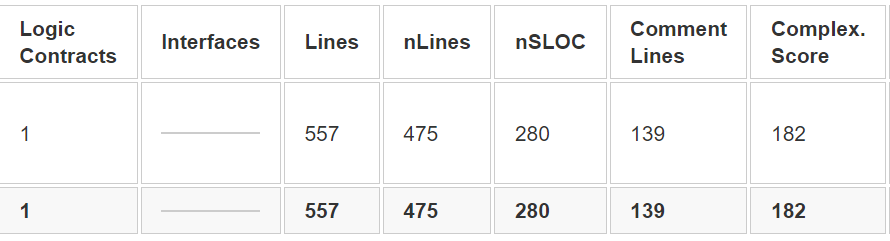
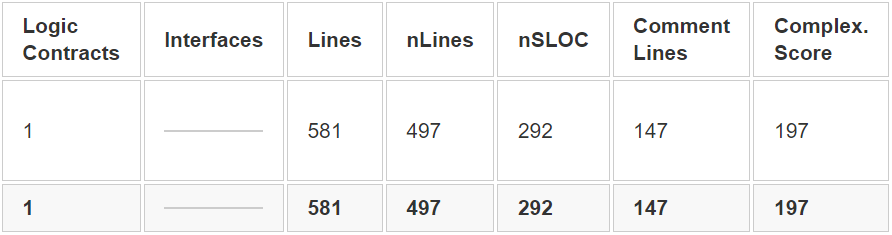
docs: update audit docs with diagrams and nSLOC

diff --git a/docs/audit-list.md b/docs/audit-list.md
@@ -45,10 +45,11 @@ Below are the list of dependencies used in these contracts. Since the interfaces
 | Imports                  | Description       | Need for audit |
 | ------------------------ | ----------------- | -------------- |
 | IERC20                   | Interface         | No             |
-| SafeERC20                | Abstract contract | No             |
+| SafeERC20                | Library           | No             |
+| AddressUpgradeable       | Library           | No             |
 | UUPSUpgradeable          | Abstract contract | No             |
 | AccessControlUpgradeable | Abstract contract | No             |
-| AddressUpgradeable       | Abstract contract | No             |
+| PausableUpgradeable      | Abstract contract | No             |
 
 ### From Chainlink (audited)
 
@@ -67,7 +68,7 @@ Below are the list of dependencies used in these contracts. Since the interfaces
 | Contracts                                                          | Description          | nSLOC (estimated by Consensys plugin) |
 | ------------------------------------------------------------------ | -------------------- | ------------------------------------- |
 | [REG.sol](../contracts/reg/REG.sol)                                | ERC20                | 110                                   |
-| [CCIPSenderReceiver.sol](../contracts/ccip/CCIPSenderReceiver.sol) | Cross-chain transfer | 280                                   |
+| [CCIPSenderReceiver.sol](../contracts/ccip/CCIPSenderReceiver.sol) | Cross-chain transfer | 292                                   |
 
 Contracts metrics using solidity-metrics plugin (Consensys):
 
@@ -83,6 +84,16 @@ Contracts metrics using solidity-metrics plugin (Consensys):
 
 Below are diagrams of different components:
 
-- Users can transferTokens from the source chain to the destination chain via CCIP
+There is a contract CCIPSenderReceiver on each chain, which acts as entry point for user to initiate a cross-chain transfer or receive token from.
+
+![Alt text](./assets/images/REG-CCIP-chains.png "CCIPSenderReceiver on different chains")
+
+Users use the function transferTokens on the source chain to send token to the destination chain via CCIP
 
 ![Alt text](./assets/images/REG-CCIP-Flows.png "CCIP transferTokens flows")
+
+- User can user transferTokens in CCIPSenderReceiver contract to transfer REG cross-chain
+- User pay CCIP fees in LINK, native or wrapped native
+- Once the transfer is finished on the source chain, the TokenPool contract of Chainlink burns the token that need to be transferred
+- Chainlink offchain components (Risk Management network, Committing DON, Executing DON) listen to the events on Chainlink contract EVM2EVMOnRamp.
+- If everything is validated, it triggers a transaction on the destination chain to mint the token to CCIPSenderReceiver, then the CCIPSenderReceiver transfer the token to the receiver and emit an event for off-chain indexes.

diff --git a/docs/ccip.md b/docs/ccip.md
@@ -61,7 +61,10 @@ To enable cross-chain applications of REG token, we use Chainlink CCIP.
 
 ### 3.1 CCIPSenderReceiver contract:
 
-We develop a CCIPSenderReceivercontract which is the entry for user to "bridge" their REG token from one chain to another chain
+We develop a CCIPSenderReceivercontract which is the entry for user to "bridge" their REG token from one chain to another chain. It has 2 main functionalities:
+
+- transferTokens for an user to transfer token from the source chain
+- ccipReceive to receive token minted on the destination chain, then transfer it to the user
 
 The contract includes:
 
@@ -88,19 +91,16 @@ View functions:
 - isAllowlistedDestinationChain
 - isAllowlistedToken
 
-### 3.2 Questions:
+### 3.2 Remarks:
 
-Questions:
+ccipSend (transferTokens):
 
-- Only bridge REG or allow whitelisted tokens? => Use allowlist token to be able to transfer other token in the future
-- Should we create a receiver contract on the destination chain? Or mint directly to user on destination chain?
-- What to do if cross-chain tx failed (manual execution)
-
-### 3.3 Practices:
-
-- ccipSend: verify destination chain, optimizing gas limit for actions on destination chain
-- ccipReceive:
-  verify source chain, sender, router address
-  setting gasLimit
+- verify destination chain, optimizing gas limit for actions on destination chain
 - Use extraArgs to set gasLimit to be as close as possible to gas consumption (mutable, if extraArgs are left empty, a default of 200000 gasLimit will be set.)
-- Prepare manual execution according to Chainlink if the transfer failed to execute on destination chain
+
+ccipReceive:
+
+- verify source chain, sender, router address
+- emit event with all information for subgraph indexes
+
+Prepare manual execution according to Chainlink if the transfer failed to execute on destination chain
